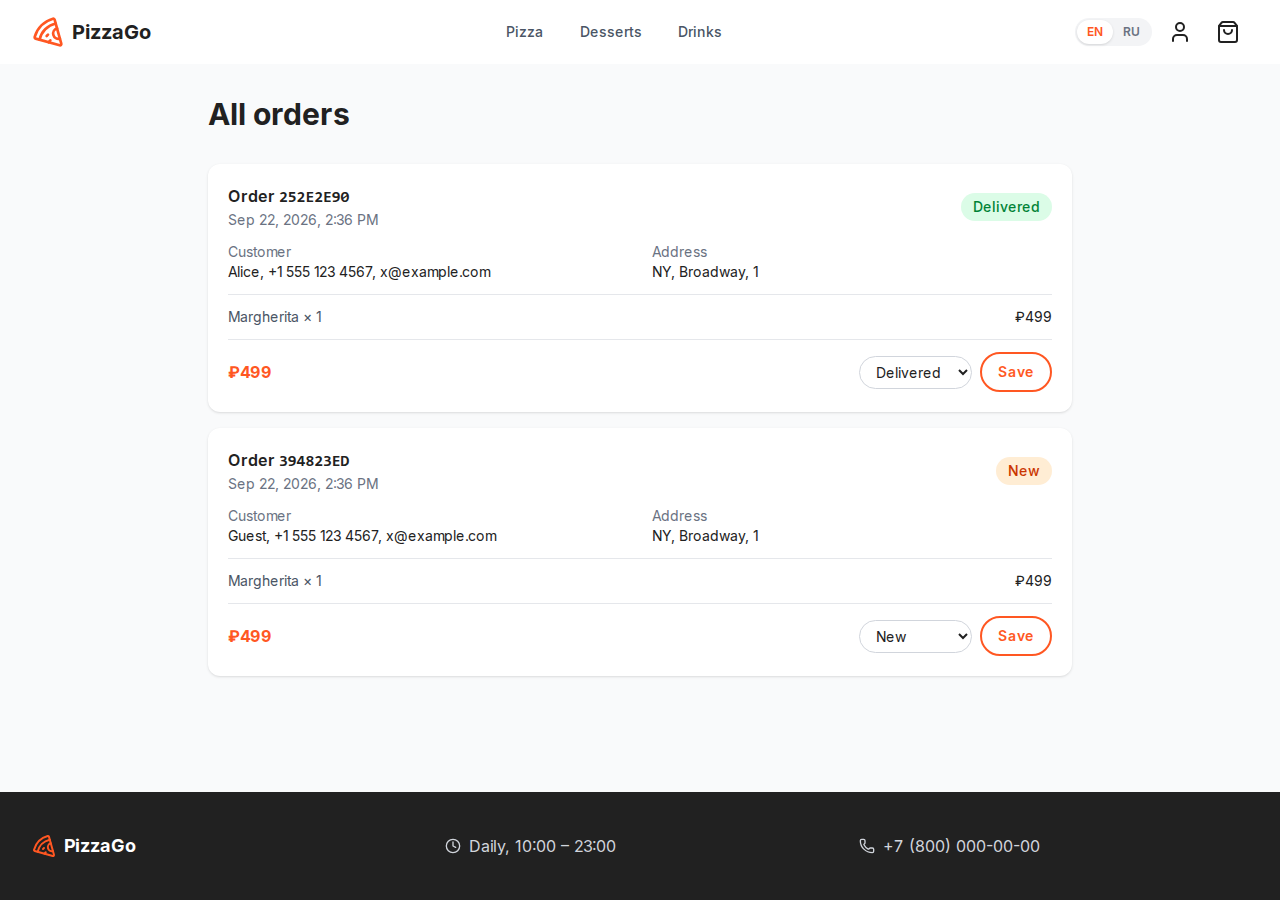
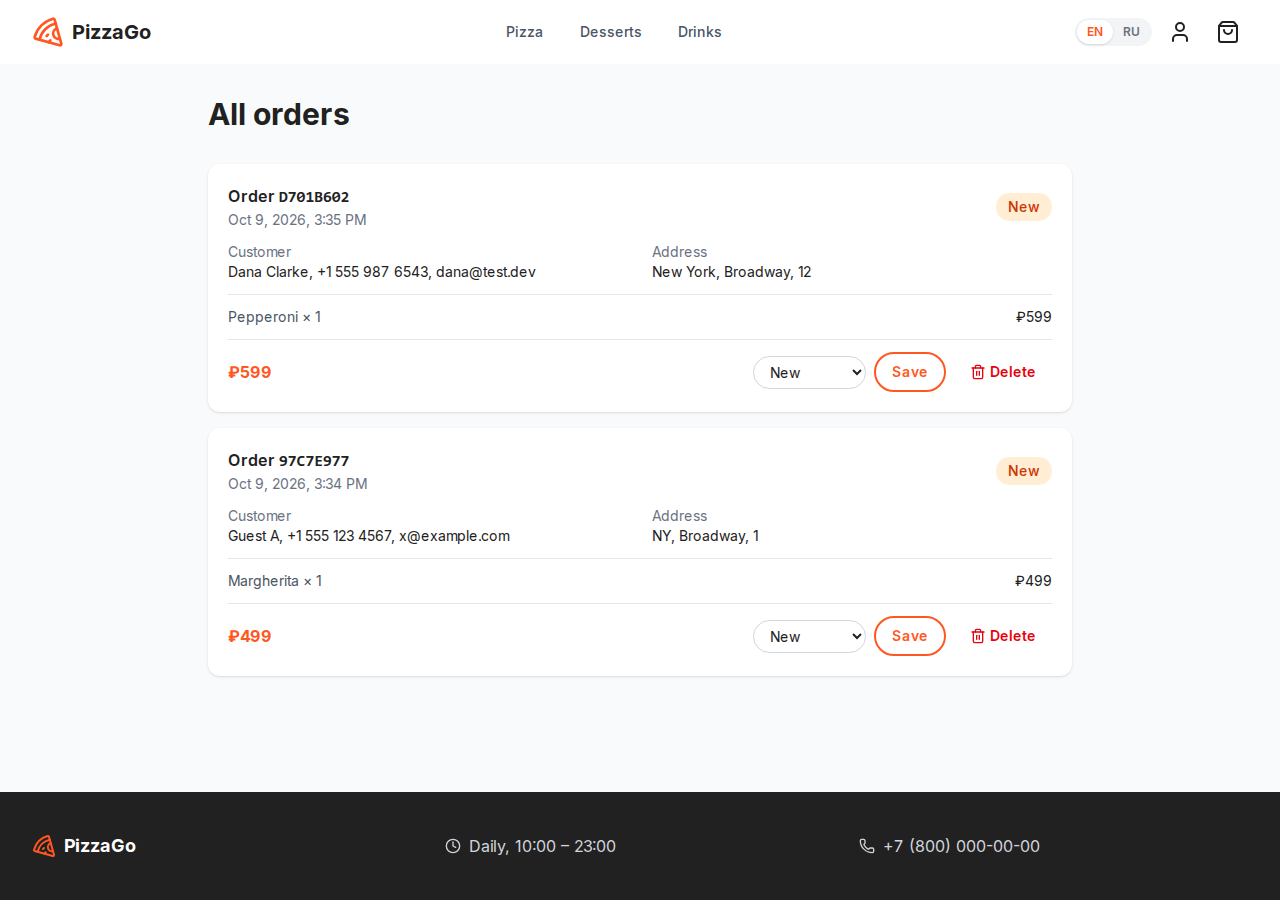
Let admins delete an order from the panel
- RLS policy and grant allow deletes only for admins; order_items follow the cascade
- Confirmation dialog before deleting, new screenshot in the README

diff --git a/app/admin/actions.ts b/app/admin/actions.ts
@@ -5,16 +5,30 @@ import { createClient } from '@/lib/supabase/server';
 import { ORDER_STATUSES } from '@/lib/orders';
 import type { OrderStatus } from '@/lib/i18n/dictionaries';
 
-// Row-level security only lets admins update orders, so a non-admin call
-// changes nothing even if someone posts to this action directly.
+const UUID = /^[0-9a-f-]{36}$/i;
+
+// Row-level security only lets admins update or delete orders, so a non-admin
+// call changes nothing even if someone posts to these actions directly.
 export async function updateOrderStatus(formData: FormData) {
   const id = String(formData.get('id') ?? '');
   const status = String(formData.get('status') ?? '') as OrderStatus;
-  if (!id || !ORDER_STATUSES.includes(status)) return;
+  if (!UUID.test(id) || !ORDER_STATUSES.includes(status)) return;
 
   const supabase = await createClient();
   const { error } = await supabase.from('orders').update({ status }).eq('id', id);
   if (error) console.error('Status update failed:', error);
+
+  revalidatePath('/admin');
+}
+
+export async function deleteOrder(formData: FormData) {
+  const id = String(formData.get('id') ?? '');
+  if (!UUID.test(id)) return;
+
+  // order_items rows are removed by the cascade on their foreign key.
+  const supabase = await createClient();
+  const { error } = await supabase.from('orders').delete().eq('id', id);
+  if (error) console.error('Order delete failed:', error);
 
   revalidatePath('/admin');
 }

diff --git a/app/admin/page.tsx b/app/admin/page.tsx
@@ -6,6 +6,7 @@ import { getDictionary } from '@/lib/i18n/dictionaries';
 import { getLocale } from '@/lib/i18n/server';
 import { getCurrentUser, isSupabaseConfigured } from '@/lib/supabase/server';
 import { ORDER_COLUMNS, ORDER_STATUSES, type OrderRow } from '@/lib/orders';
+import { DeleteOrderButton } from '@/components/orders/DeleteOrderButton';
 import { updateOrderStatus } from './actions';
 
 export async function generateMetadata(): Promise<Metadata> {
@@ -40,6 +41,7 @@ export default async function AdminPage() {
         <div className="space-y-4">
           {orders.map((order) => (
             <OrderCard key={order.id} order={order} locale={locale} showCustomer>
+              <div className="flex flex-wrap items-center gap-2">
               <form action={updateOrderStatus} className="flex items-center gap-2">
                 <input type="hidden" name="id" value={order.id} />
                 <label htmlFor={`status-${order.id}`} className="sr-only">
@@ -61,6 +63,8 @@ export default async function AdminPage() {
                   {t.admin.save}
                 </Button>
               </form>
+              <DeleteOrderButton orderId={order.id} />
+              </div>
             </OrderCard>
           ))}
         </div>

diff --git a/components/orders/DeleteOrderButton.tsx b/components/orders/DeleteOrderButton.tsx
@@ -1,0 +1,31 @@
+'use client';
+
+import { Trash2 } from 'lucide-react';
+import { Button } from '@/components/ui/Button';
+import { useI18n } from '@/lib/i18n/context';
+import { deleteOrder } from '@/app/admin/actions';
+
+export function DeleteOrderButton({ orderId }: { orderId: string }) {
+  const { t } = useI18n();
+
+  return (
+    <form
+      action={deleteOrder}
+      onSubmit={(e) => {
+        if (!window.confirm(t.admin.confirmDelete)) e.preventDefault();
+      }}
+    >
+      <input type="hidden" name="id" value={orderId} />
+      <Button
+        type="submit"
+        size="sm"
+        variant="ghost"
+        className="text-red-600 hover:bg-red-50"
+        aria-label={t.admin.delete}
+      >
+        <Trash2 className="w-4 h-4 mr-1" aria-hidden />
+        {t.admin.delete}
+      </Button>
+    </form>
+  );
+}

diff --git a/lib/i18n/dictionaries.ts b/lib/i18n/dictionaries.ts
@@ -118,6 +118,8 @@ const en = {
     address: 'Address',
     save: 'Save',
     status: 'Status',
+    delete: 'Delete',
+    confirmDelete: 'Delete this order permanently? This cannot be undone.',
   },
   status: {
     pending: 'New',
@@ -252,6 +254,8 @@ const ru: Dictionary = {
     address: 'Адрес',
     save: 'Сохранить',
     status: 'Статус',
+    delete: 'Удалить',
+    confirmDelete: 'Удалить заказ навсегда? Отменить это действие нельзя.',
   },
   status: {
     pending: 'Новый',

diff --git a/README.ru.md b/README.ru.md
@@ -23,7 +23,7 @@
 **Аккаунты и заказы (Supabase)**
 - Регистрация и вход по email и паролю
 - Страница «Мои заказы» со статусом каждого заказа, оформленного после входа
-- Панель администратора: все заказы с данными клиента и сменой статуса (Новый → Готовится → Доставлен / Отменён)
+- Панель администратора: все заказы с данными клиента, сменой статуса (Новый → Готовится → Доставлен / Отменён) и удалением заказа вместе с позициями
 - Доступ ограничивает сама база через row-level security, а не только интерфейс: клиент видит только свои заказы, менять статусы могут только администраторы
 
 Supabase необязателен. Без него магазин работает и сохраняет заказы в `.data/orders.json`, а страницы аккаунта скрыты.

diff --git a/README.md b/README.md
@@ -23,7 +23,7 @@ A pizza delivery storefront: menu by category, cart, checkout, customer accounts
 **Accounts and orders (Supabase)**
 - Sign up and sign in with email and password
 - "My orders" page with the status of every order placed while signed in
-- Admin panel: all orders with customer details and a status switcher (New → Cooking → Delivered / Cancelled)
+- Admin panel: all orders with customer details, a status switcher (New → Cooking → Delivered / Cancelled) and deletion of an order with its items
 - Access is enforced by PostgreSQL row-level security, not just by the UI: customers only see their own orders, only admins can change statuses
 
 Supabase is optional. Without it the shop still works and stores orders in `.data/orders.json`; account pages are hidden.
